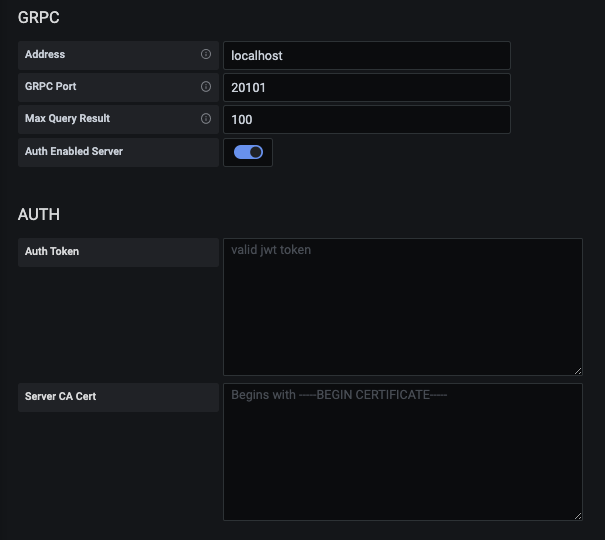
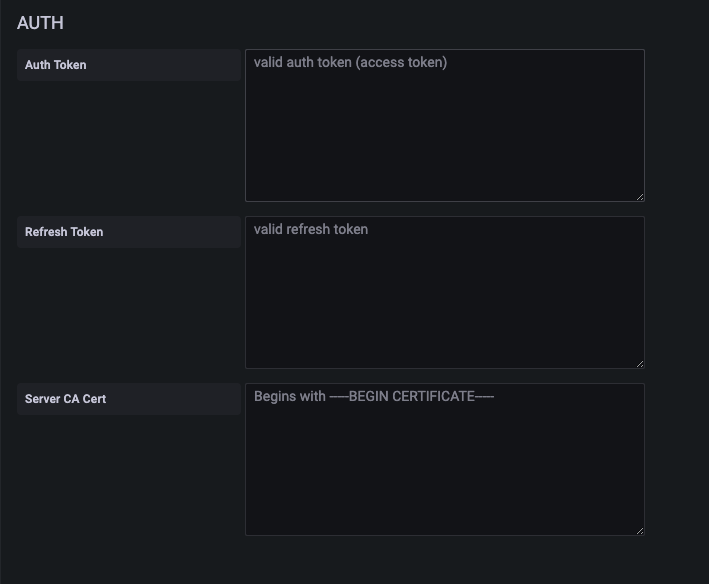
Update Grafana auth docs with new refresh token config option

diff --git a/how-tos/_posts/2022-04-01-enable-auth.md b/how-tos/_posts/2022-04-01-enable-auth.md
@@ -116,15 +116,18 @@ When TLS is enabled, the scheme must be explicitly defined as `https` in `featur
 For example, `bind = "localhost:10101"` must be `bind = "https://localhost:10101"`.
 
 ## FAQs
-### How can I get an auth token?
-An auth token is a valid JWT provided by FeatureBase after the user is authenticated.
-To obtain an auth token:
-- `token` can be obtained by logging into FeatureBase from a browser
-- Once you have logged in, right click on the browser, and click on Inspect
+<span id="how-to-get-auth-token"></span>
+### How can I get an auth and refresh token?
+An auth token is a valid JWT provided by FeatureBase after the user is
+authenticated. A refresh token is a token used to refresh an expired auth token.
+To obtain:
+- Log into FeatureBase from a browser
+- Right click on the browser, and click on Inspect
 !["Inspect"](/img/auth_inspect.png)
 - Click on Application
 !["Cookie"](/img/auth_inspect_result.png)
 - Click on Cookies on the left-side tabs, then click on `molecula-chip`. Copy the Cookie Value, this is the auth token.
+- While on the cookies tab, click on `refresh-molecula-chip`. Copy the Cookie Value, this is the refresh token.
 !["Molecula-Token"](/img/auth_token.png)
 
 ### How can I use an auth token?

diff --git a/how-tos/_posts/2022-04-01-use-grafana-plugin.md b/how-tos/_posts/2022-04-01-use-grafana-plugin.md
@@ -72,6 +72,7 @@ Point Grafana to a running FeatureBase server
 ### Configure Authentication
 If FeatureBase server has authentication enabled, select Auth Enabled Server in the Grafana configuration page for the FeatureBase data source. Two new fields will be displayed: Auth Token and Server CA Cert.
 - `Auth Token`: a JWT used for authentication and authorization obtained by following these [instructions](/how-tos/enable-auth#how-to-get-auth-token)
+- `Refresh Token`: a JWT used for refreshing the auth token, obtained by following these [instructions](/how-tos/enable-auth#how-to-get-auth-token)
 - `Server CA Cert`: the contents of the certificate used for TLS on the FeatureBase server
 
 ![Grafana Configure Authentication](/img/grafana-configure-auth.png "Grafana Configure Authentication")  
